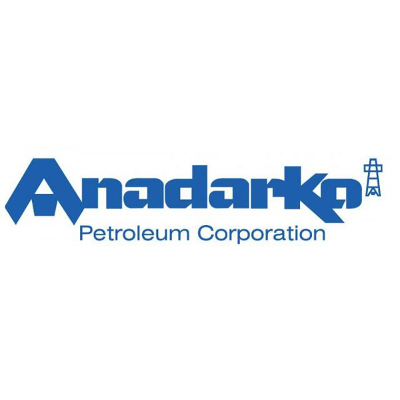
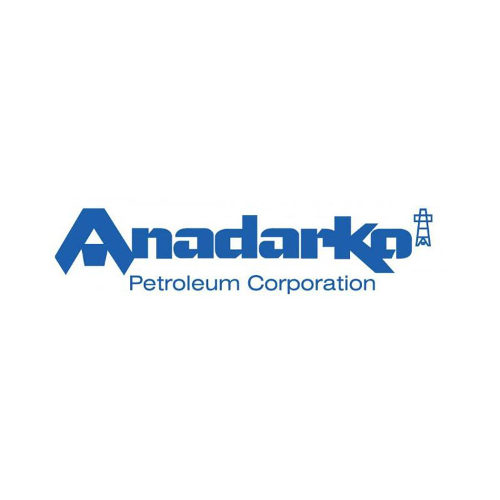
Resize pics.

Changed region(s): [[0.0, 0.39, 0.96, 0.63]]

diff --git a/clients.html b/clients.html
@@ -66,7 +66,7 @@
 
                 <li><img src="../media/catan.jpg" alt="Catan Foundation" title="Catan Foundations" /></li>
 
-                <li><img src="../media/anadarko.jpg" alt="Anadarko" title="Anadarko" />/li>
+                <li><img src="../media/anadarko.jpg" alt="Anadarko" title="Anadarko" /></li>
 
                 <li><img src="../media/fullscreen.jpg" alt="Fullscreen" title="Fullscreen" /></li>
 
